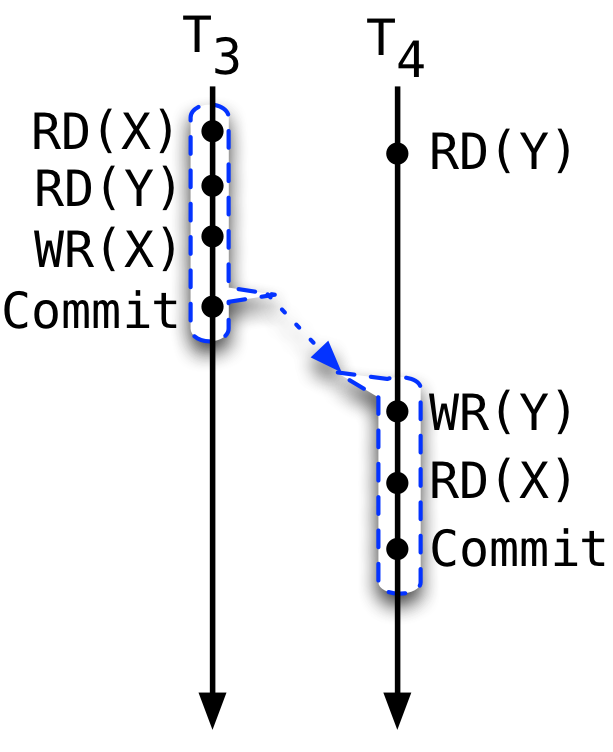
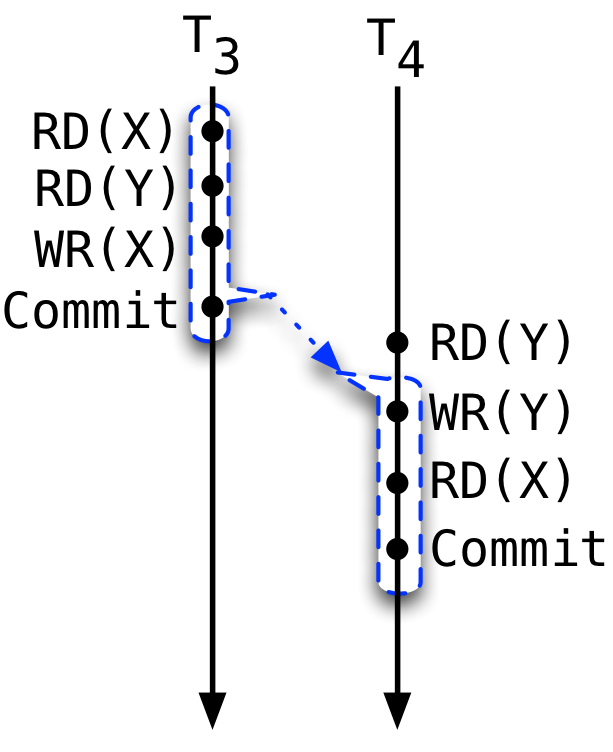
SI and SER figs modified.

Changed region(s): [[0.6199, 0.4282, 0.9299, 0.4894], [0.6199, 0.1529, 0.9299, 0.2447]]

diff --git a/ansi-isolation.tex b/ansi-isolation.tex
@@ -142,19 +142,19 @@ insists that either $T_i$ be visible to $T_j$, or $T_j$ be visible to
 the conflicting write of $T_i$ (this is captured by the auxiliary
 definition \C{SnapshotSER}). Fig.~\ref{fig:ansi-iso-eg-si} shows an
 execution where {\sc si} transaction $T_1$ witnesses a snapshot of the
-database that doesn't include $T_2$, but the conflicting write to $X$
-in $T_2$, and the subsequent operations (due to the monotonicity
-requirement of {\sc mav}) witness $T_1$. Thus, $T_2$ is aware of $T_1$
-when it commits. Lastly, \iso{Serializable} isolation extends
-$\mathtt{SnapshotSER}$ to also cover non-conflicting transactions that
-write to variables read in the current transaction.
-Fig.~\ref{fig:ansi-iso-eg-ser} shows an execution of an {\sc ser}
-transaction $T_3$ and a {\sc mav transaction} $T_4$, which write to $X$
-and $Y$, respectively. The snapshot witnessed by the {\sc ser}
-transaction $T_3$ does not include $T_4$, but the write to $Y$ in
-$T_4$, although non-conflicting, witnesses $T_1$ because $Y$ is read
-by $T_1$. Visibility includes other operations of $T_4$ because of
-{\sc mav}.
+database that doesn't include $T_2$. Due to \C{SI($T_1$)}, the
+conflicting write to $X$ in $T_2$ is now required to witness $T_1$, as
+captured by the direction of the $\visZ$ arrow (subsequent operations
+also witness $T_1$ because $T_2$ is executing under {\sc mav}).
+Lastly, \iso{Serializable} isolation extends $\mathtt{SnapshotSER}$ to
+also cover non-conflicting transactions that write to variables read
+in the current transaction.  Fig.~\ref{fig:ansi-iso-eg-ser} shows an
+execution of an {\sc ser} transaction $T_3$ and a {\sc mav
+transaction} $T_4$, which write to $X$ and $Y$, respectively. The
+snapshot witnessed by the {\sc ser} transaction $T_3$ does not include
+$T_4$, but the write to $Y$ in $T_4$, although non-conflicting,
+witnesses $T_1$ because $Y$ is read by $T_1$. Visibility includes
+other operations of $T_4$ because of {\sc mav}.
 
 % Note that both $\mathtt{SnapshotVis}$ and $\mathtt{OneWaySER}$
 % are asymmetric definitions that guarantee complete visiblity or
